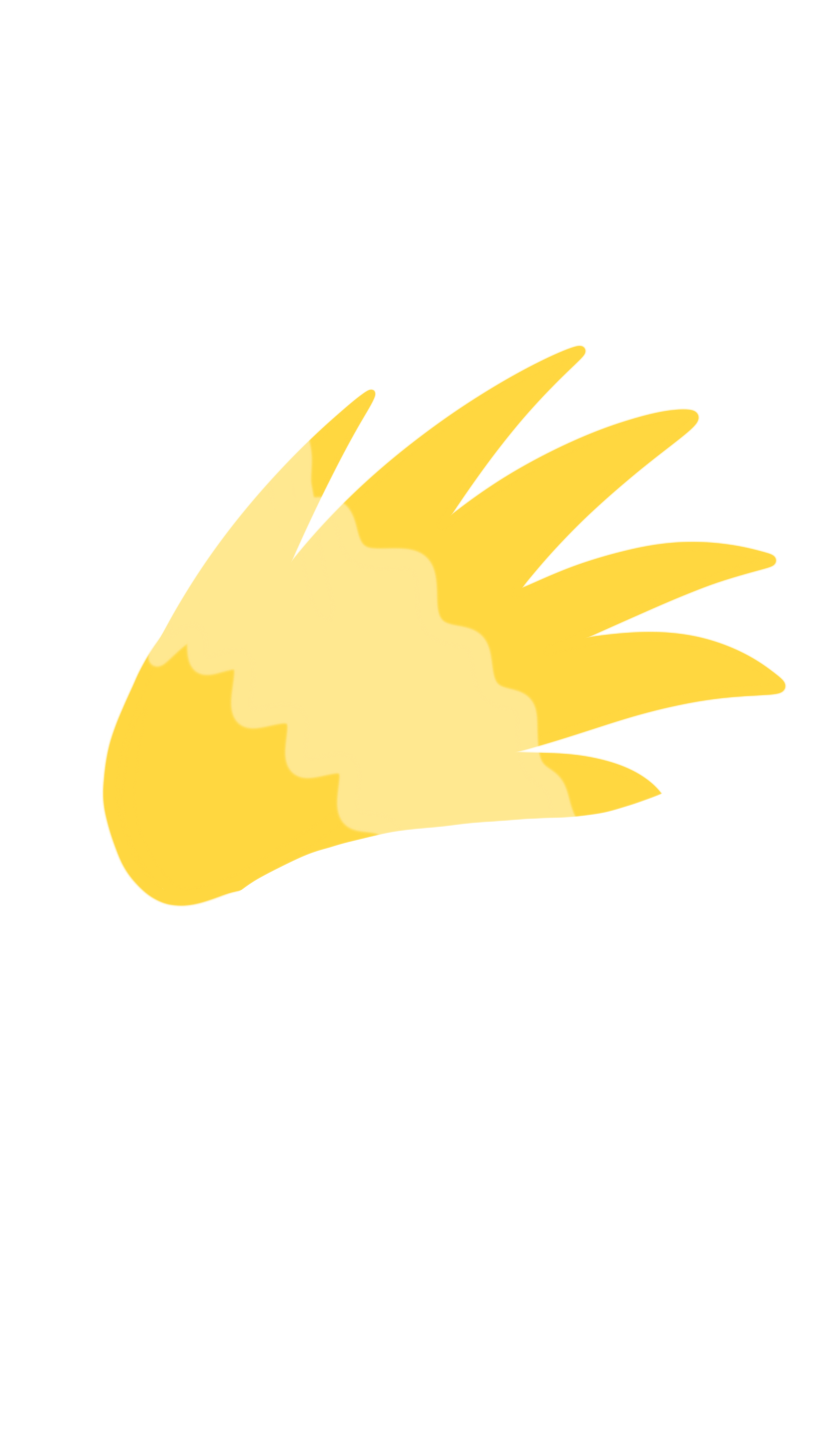
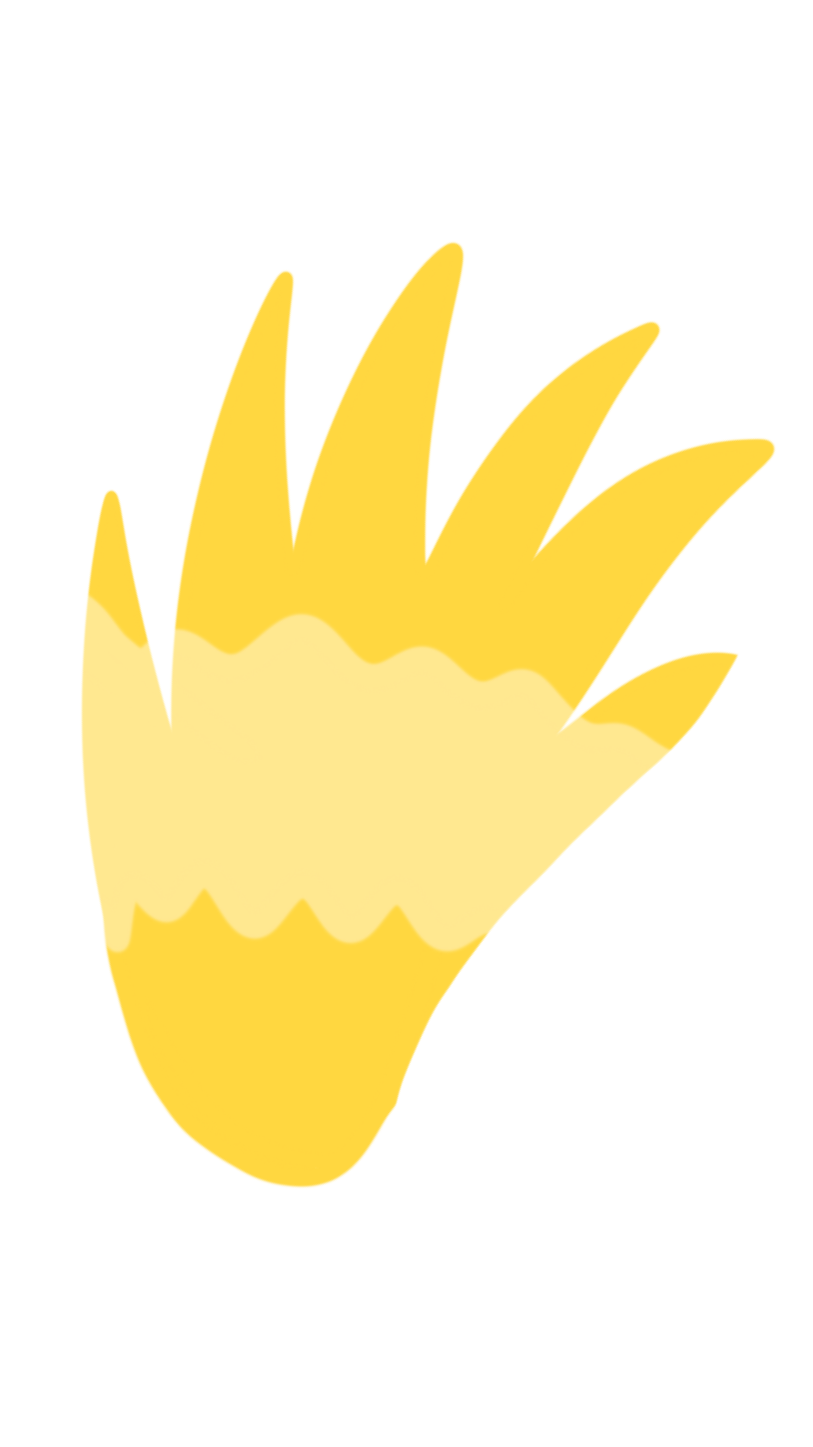
Add files via upload

Changed region(s): [[0.0923, 0.1555, 0.984, 0.8397]]

diff --git a/index.html b/index.html
@@ -3,13 +3,14 @@
 	
 <head>
 	<meta charset="UTF-8">
-	<meta name="author" content="jouw naam">
+	<meta name="author" content="Gwyneth Schmitz">
 	<meta name="viewport" content="width=device-width, initial-scale=1">
 	
-	<title>VIDii 2011/22 - Eeveelution</title>
+	<title>VIDii 2022 - Eeveelution</title>
 	
 	<link href="styles/style.css" rel="stylesheet">
-	<link rel="icon" type="image/svg+xml" href="images/favicon.svg">
+	<link rel="icon" type="image/svg+xml" href="images/eevee8bit.png">
+	<!-- eevee 8bit image: https://pngset.com/download-free-png-cshwz -->
 </head>
 
 <body>
@@ -18,47 +19,47 @@
 
 			<!-- Eevee blok -->
 			<div id="eevee" class="blok">
-				<img src="/images/eeveestaart.png" alt="Eevee staart">
+				<img src="images/eeveestaart.png" alt="Eevee staart">
 			</div>
 
-			<!-- Eevee blok -->
-			<div id="eevee2" class="blok">
-				<img src="/images/eeveestaart.png" alt="Eevee staart">
+			<!-- Vaporeon blok -->
+			<div id="vaporeon" class="blok">
+				<img src="images/vaporeonstaart.png" alt="Vaporeon staart">
 			</div>
 
-			<!-- Eevee blok -->
-			<div id="eevee3" class="blok">
-			<!-- image -->
+			<!-- Jolteon blok -->
+			<div id="jolteon" class="blok">
+				<img src="images/jolteonstaart.png" alt="Jolteon staart">
 			</div>
 
-			<!-- Eevee blok -->
-			<div id="eevee4" class="blok">
-				
+			<!-- Flareon blok -->
+			<div id="flareon" class="blok">
+				<img src="images/flareonstaart.png" alt="Flareon staart">
 			</div>
 
-			<!-- Eevee blok -->
-			<div id="eevee5" class="blok">
-				
+			<!-- Umbreon blok -->
+			<div id="umbreon" class="blok">
+				<img src="images/umbreonstaart.png" alt="Umbreon staart">	
 			</div>
 
-			<!-- Eevee blok -->
-			<div id="eevee6" class="blok">
-				
+			<!-- Espeon blok -->
+			<div id="espeon" class="blok">
+				<img src="images/espeonstaart.png" alt="Espeon staart">	
 			</div>
 
-			<!-- Eevee blok -->
-			<div id="eevee7" class="blok">
-				
+			<!-- Leafeon blok -->
+			<div id="leafeon" class="blok">
+				<img src="images/leafeonstaart.png" alt="Leafeon staart">	
 			</div>
 
-			<!-- Eevee blok -->
-			<div id="eevee8" class="blok">
-				
+			<!-- Glaceon blok -->
+			<div id="glaceon" class="blok">
+				<img src="images/glaceonstaart.png" alt="Glaceon staart">	
 			</div>
 
-			<!-- Eevee blok -->
-			<div id="eevee9" class="blok">
-				
+			<!-- Sylveon blok -->
+			<div id="sylveon" class="blok">
+				<img src="images/sylveonstaart.png" alt="Sylveon staart">	
 			</div>
 		</div>
 

diff --git a/styles/style.css b/styles/style.css
@@ -33,70 +33,97 @@ button:not([disabled]) {
 
 /* De Eevee afbeelding */
 img {
-  width: 3rem;
-  height: 3rem;
+  width: 8rem;
+  height: 16rem;
 }
 
 /* Eevee blok */
-/* 100% width en heigth zorgt ervoor dat de breedte van de blokken eerlijk worden verdeeld */
+/* 100% width en height zorgt ervoor dat de breedte van de blokken eerlijk worden verdeeld */
 #eevee {
   width: 100%;
   height: 100%;
-  background-color: red;
+  background-color: #D3AE8C;
 }
 
-/* Eevee blok */
-#eevee2 {
-  width: 100%;
-  height: 100%;
-  background-color: blue;
+/* wiggle animatie van de staart */
+/* https://css-tricks.com/almanac/properties/a/animation/ */
+@keyframes wiggle {
+  0% {
+  transform: rotate(0deg);
+  }
+  20% {
+  transform: rotate(45deg);
+  }
+
+  60% {
+    transform: rotate(-45deg);
+  }
+
+  100% {
+  transform: rotate(0);
+  }
+  }
+
+img:nth-of-type(1):hover {
+  animation-name: wiggle;
+  animation-duration: 2s;
+  animation-timing-function: ease-in-out;
+  animation-iteration-count: infinite;
+
 }
 
-/* Eevee blok */
-#eevee3 {
+/* Vaporeon blok */
+#vaporeon {
   width: 100%;
   height: 100%;
-  background-color: yellow;
+  background-color: #84dcff;
 }
 
-/* Eevee blok */
-#eevee4 {
+/* Jolton blok */
+#jolteon {
   width: 100%;
   height: 100%;
-  background-color: purple;
+  background-color: #FDDE84;
 }
 
-/* Eevee blok */
-#eevee5 {
+/* Flareon blok */
+#flareon {
   width: 100%;
   height: 100%;
-  background-color: green;
+  background-color: #FF8E7A;
 }
 
-/* Eevee blok */
-#eevee6 {
+/* Umbreon blok */
+#umbreon {
   width: 100%;
   height: 100%;
-  background-color: gray;
+  background-color: #7E888A;
 }
 
-/* Eevee blok */
-#eevee7 {
+/* Espeon blok */
+#espeon {
   width: 100%;
   height: 100%;
-  background-color: brown;
+  background-color: #E3CCDD;
 }
 
-/* Eevee blok */
-#eevee8 {
+/* Leafeon blok */
+#leafeon {
   width: 100%;
   height: 100%;
-  background-color: pink;
+  background-color: #ADE099;
 }
 
-/* Eevee blok */
-#eevee9 {
+/* Glaceon blok */
+#glaceon {
   width: 100%;
   height: 100%;
-  background-color: orange;
+  background-color: #8cf4fa;
+}
+
+/* Sylveon blok */
+#sylveon {
+  width: 100%;
+  height: 100%;
+  background-color: #F4B8C6;
 }

diff --git a/README.md b/README.md
@@ -167,6 +167,6 @@ Nb. Wees specifiek ('css-tricks' als bron is bijv. niet specifiek genoeg).
 
 1. bron 1: VW & VH https://stackoverflow.com/questions/24808661/make-div-100-width-of-browser-window
 2. bron 2: Flexbox https://css-tricks.com/snippets/css/a-guide-to-flexbox/
-3. ...
+3. bron 3: CSS Animaties https://css-tricks.com/almanac/properties/a/animation/
 
 </details>
